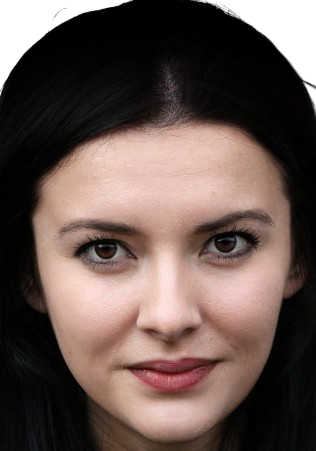
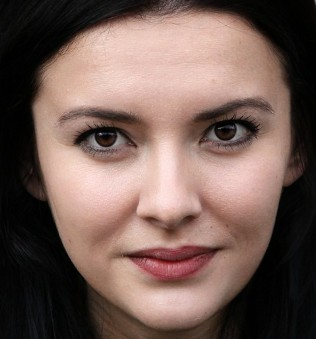
improve

diff --git a/src/Content.js b/src/Content.js
@@ -108,7 +108,7 @@ function Content() {
   const [backgroundInfo, setBackgroundInfo] = useState({
     age: "",
     gender: "",
-    race: "",
+    race: [],
     fashionKnowledge: "",
     aiExperience: "",
   });
@@ -143,6 +143,18 @@ function Content() {
       ...prev,
       [field]: value,
     }));
+  };
+
+  const handleRaceChange = (race) => {
+    setBackgroundInfo((prev) => {
+      const newRaces = prev.race.includes(race)
+        ? prev.race.filter((r) => r !== race)
+        : [...prev.race, race];
+      return {
+        ...prev,
+        race: newRaces,
+      };
+    });
   };
 
   const isAllResponsesComplete = () => {
@@ -224,7 +236,10 @@ function Content() {
           method: "POST",
           body: JSON.stringify({
             participantId,
-            backgroundInfo,
+            backgroundInfo: {
+              ...backgroundInfo,
+              race: backgroundInfo.race.join(", "),
+            },
             responses: responses.map((response, index) => ({
               imageUrl: imageList[index],
               isDeepfake: response.isDeepfake,
@@ -245,28 +260,28 @@ function Content() {
   const general = (
     <div>
       <h2>
-        You'll be shown photos that are supposed to be from the past year.
+        You will see photos of faces. They are either photos of real people
+        taken between 2020 - 2025, or are AI generated “deepfakes”.
+        <br />
+        <br />
+        Look closely at the beauty trends, such as current trends in fashion,
+        makeup, hair, eyebrows, and accessories
       </h2>
-      <p>
-        Look closely at the fashion choices, makeup, and styling in each photo.
-      </p>
     </div>
   );
   const primed = (
     <>
       {general}
       <br />
-      <div style={{ color: "red" }}>
-        Some of these images were created by AI,{" "}
-        <b>which often uses outdated beauty trends.</b>
-      </div>
+      <h2 style={{ color: "red" }}>
+        AI faces often use outdated beauty trends.
+      </h2>
     </>
   );
   if (currentScreen === "priming" && isPrimed !== null) {
     return (
       <div className="content-container">
         <div className="background-form">
-          <h1>Before We Begin</h1>
           {isPrimed ? (
             // Content for primed group
             <div>
@@ -323,26 +338,47 @@ function Content() {
           </div>
 
           <div className="form-group">
-            <label>Race/Ethnicity:</label>
-            <select
-              value={backgroundInfo.race}
-              onChange={(e) => handleBackgroundChange("race", e.target.value)}
-            >
-              <option value="">Select race/ethnicity</option>
-              <option value="asian">Asian</option>
-              <option value="black">Black or African American</option>
-              <option value="hispanic">Hispanic or Latino</option>
-              <option value="white">White</option>
-              <option value="mixed">Mixed</option>
-              <option value="other">Other</option>
-              <option value="prefer-not">Prefer not to say</option>
-            </select>
+            <label>Race/Ethnicity (select all that apply):</label>
+            <div className="checkbox-group">
+              {[
+                { id: "asian", label: "Asian" },
+                { id: "black", label: "Black or African American" },
+                { id: "hispanic", label: "Hispanic or Latino" },
+                { id: "white", label: "White" },
+                { id: "mixed", label: "Mixed" },
+                { id: "other", label: "Other" },
+                { id: "prefer-not", label: "Prefer not to say" },
+              ].map(({ id, label }) => (
+                <label
+                  key={id}
+                  className="checkbox-item"
+                  style={{
+                    display: "flex",
+                    alignItems: "center",
+                    justifyContent: "start",
+                    flexDirection: "row",
+                  }}
+                >
+                  <input
+                    type="checkbox"
+                    checked={backgroundInfo.race.includes(id)}
+                    onChange={() => handleRaceChange(id)}
+                    style={{ width: "20px", height: "20px" }}
+                  />
+                  <span>{label}</span>
+                </label>
+              ))}
+            </div>
           </div>
 
           <div className="form-group">
             <label>
-              How would you rate your knowledge of current fashion trends?
+              How would you rate your knowledge of current beauty trends?
             </label>
+            <p>
+              (this includes the current trends in fashion, makeup, hair,
+              eyebrows, accessories)
+            </p>
             <select
               value={backgroundInfo.fashionKnowledge}
               onChange={(e) =>
@@ -402,8 +438,8 @@ function Content() {
           <button
             className="primary-button"
             onClick={startPriming}
-            disabled={Object.values(backgroundInfo).some(
-              (value) => value === ""
+            disabled={Object.entries(backgroundInfo).some(([key, value]) =>
+              key === "race" ? value.length === 0 : value === ""
             )}
           >
             Start Survey

diff --git a/src/people/crop_tool.py b/src/people/crop_tool.py
@@ -1,0 +1,114 @@
+import cv2
+import os
+import glob
+
+class CropTool:
+    def __init__(self, image_path):
+        # Read image and ensure it's in BGR format
+        self.image = cv2.imread(image_path, cv2.IMREAD_COLOR)
+        if self.image is None:
+            raise ValueError(f"Could not load image: {image_path}")
+            
+        self.window_name = f"Crop Tool - {os.path.basename(image_path)}"
+        # Set rectangle size to the largest square that can fit in the image
+        self.rect_size = min(self.image.shape[0], self.image.shape[1])
+        # Center the square initially
+        self.x = (self.image.shape[1] - self.rect_size) // 2
+        self.y = (self.image.shape[0] - self.rect_size) // 2
+        self.output_path = image_path.replace('.png', '_cropped.png')
+        self.dragging = False
+        self.offset_x = 0
+        self.offset_y = 0
+        
+    def mouse_callback(self, event, x, y, flags, param):
+        if event == cv2.EVENT_LBUTTONDOWN:
+            # Check if click is within the rectangle
+            if (self.x <= x <= self.x + self.rect_size and 
+                self.y <= y <= self.y + self.rect_size):
+                self.dragging = True
+                self.offset_x = x - self.x
+                self.offset_y = y - self.y
+        elif event == cv2.EVENT_MOUSEMOVE and self.dragging:
+            # Update rectangle position while dragging
+            new_x = x - self.offset_x
+            new_y = y - self.offset_y
+            # Keep rectangle within image bounds
+            self.x = max(0, min(new_x, self.image.shape[1] - self.rect_size))
+            self.y = max(0, min(new_y, self.image.shape[0] - self.rect_size))
+        elif event == cv2.EVENT_LBUTTONUP:
+            self.dragging = False
+        
+    def draw_rect(self, img):
+        img_copy = img.copy()
+        cv2.rectangle(img_copy, 
+                     (self.x, self.y), 
+                     (self.x + self.rect_size, self.y + self.rect_size), 
+                     (0, 255, 0), 2)
+        # Add instructions
+        cv2.putText(img_copy, "SPACE: crop and next | ESC: skip | q: quit", 
+                   (10, 30), cv2.FONT_HERSHEY_SIMPLEX, 0.7, (0, 255, 0), 2)
+        return img_copy
+    
+    def run(self):
+        cv2.namedWindow(self.window_name)
+        cv2.setMouseCallback(self.window_name, self.mouse_callback)
+        
+        while True:
+            img_with_rect = self.draw_rect(self.image)
+            cv2.imshow(self.window_name, img_with_rect)
+            key = cv2.waitKey(1) & 0xFF
+            
+            # Movement controls (arrow keys or WASD) for fine-tuning
+            if key == 82 or key == ord('w'):  # Up
+                self.y = max(0, self.y - 1)
+            elif key == 84 or key == ord('s'):  # Down
+                self.y = min(self.image.shape[0] - self.rect_size, self.y + 1)
+            elif key == 81 or key == ord('a'):  # Left
+                self.x = max(0, self.x - 1)
+            elif key == 83 or key == ord('d'):  # Right
+                self.x = min(self.image.shape[1] - self.rect_size, self.x + 1)
+            elif key == 32:  # SPACE to crop and continue
+                cropped = self.image[self.y:self.y + self.rect_size, 
+                                   self.x:self.x + self.rect_size].copy()
+                # Ensure we're writing a clean BGR image
+                cv2.imwrite(self.output_path, cropped, [cv2.IMWRITE_PNG_COMPRESSION, 9])
+                print(f"Saved cropped image to: {self.output_path}")
+                break
+            elif key == 27:  # ESC to skip
+                print(f"Skipped: {self.window_name}")
+                break
+            elif key == ord('q'):  # q to quit entirely
+                cv2.destroyAllWindows()
+                return False
+                
+        cv2.destroyAllWindows()
+        return True
+
+def main():
+    # Get all PNG files in the current directory that aren't already cropped
+    image_files = [f for f in glob.glob("*.png") if not f.endswith('_cropped.png')]
+    
+    if not image_files:
+        print("No PNG files found in the current directory!")
+        return
+
+    print(f"\nFound {len(image_files)} images. Starting crop tool...")
+    print("Controls:")
+    print("- Drag square with mouse")
+    print("- Arrow keys/WASD for fine adjustments")
+    print("- SPACE: crop current image and move to next")
+    print("- ESC: skip current image")
+    print("- q: quit program\n")
+    
+    for img_path in sorted(image_files):
+        try:
+            cropper = CropTool(img_path)
+            if not cropper.run():  # If user pressed 'q'
+                print("\nQuitting...")
+                break
+        except Exception as e:
+            print(f"Error processing {img_path}: {str(e)}")
+            continue
+
+if __name__ == "__main__":
+    main() 
